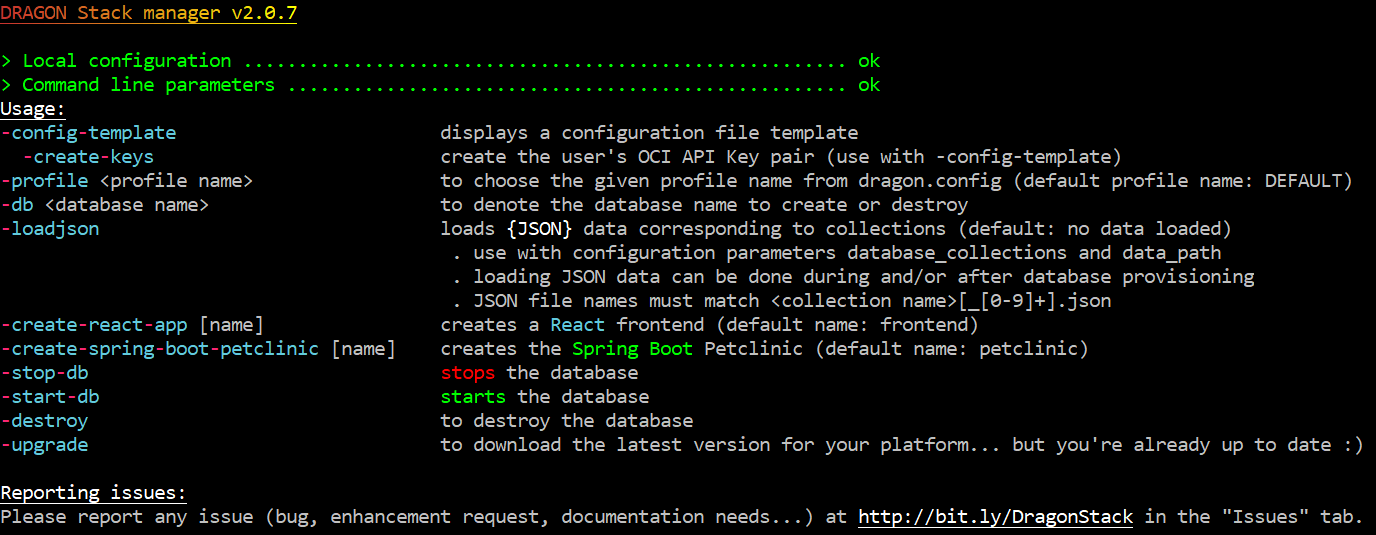
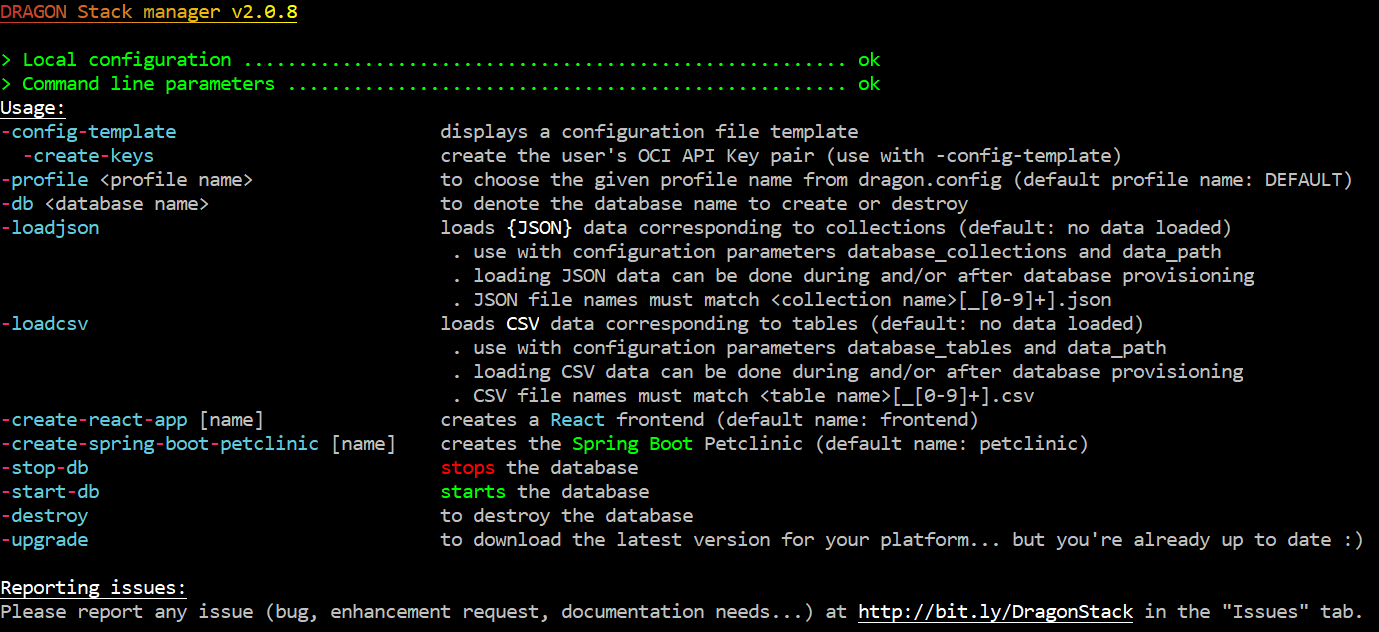
version 2.0.8

diff --git a/README.md b/README.md
@@ -20,26 +20,26 @@ __... in 5 minutes.__
 [![DRAGON Stack - React Frontend / Autonomous Backend](https://img.youtube.com/vi/DzI9yyAiRjY/0.jpg)](https://www.youtube.com/watch?v=DzI9yyAiRjY)
 
 ## Download
-The latest stable release is v2.0.7.
+The latest stable release is v2.0.8.
 
 ### Linux and OCI Cloud Shell
 ```
-rm -f ./dragon-linux-x86_64-2.0.7
-wget https://github.com/loiclefevre/dragon/releases/download/v2.0.7/dragon-linux-x86_64-2.0.7
+rm -f ./dragon-linux-x86_64-2.0.8
+wget https://github.com/loiclefevre/dragon/releases/download/v2.0.8/dragon-linux-x86_64-2.0.8
 chmod +x dragon-linux-*
 ```
 Learn about [OCI Cloud shell](https://docs.cloud.oracle.com/en-us/iaas/Content/API/Concepts/cloudshellintro.htm).
 
 ### Windows
 ```
-powershell wget https://github.com/loiclefevre/dragon/releases/download/v2.0.7/dragon-windows-x86_64-2.0.7.exe -OutFile dragon-windows-x86_64-2.0.7.exe
+powershell wget https://github.com/loiclefevre/dragon/releases/download/v2.0.8/dragon-windows-x86_64-2.0.8.exe -OutFile dragon-windows-x86_64-2.0.8.exe
 ```
 ### MAC OS
 *You'd need to [notarize](https://developer.apple.com/documentation/xcode/notarizing_macos_software_before_distribution) the application once downloaded*
 ```
-curl -L -O https://github.com/loiclefevre/dragon/releases/download/v2.0.7/dragon-osx-x86_64-2.0.7
+curl -L -O https://github.com/loiclefevre/dragon/releases/download/v2.0.8/dragon-osx-x86_64-2.0.8
 chmod +x dragon-osx-*
-sudo xattr -r -d com.apple.quarantine dragon-osx-x86_64-2.0.7
+sudo xattr -r -d com.apple.quarantine dragon-osx-x86_64-2.0.8
 ```
 
 ### Changelog
@@ -122,11 +122,15 @@ database_password=<database password>
  # Uncomment to ask for Bring Your Own Licenses model (doesn't work for Always Free and AJD)
 # database_license_type=byol
 
+ # Path to a folder where data to load into collections can be found (default to current directory)
+data_path=.
+
  # A list of coma separated JSON collection name(s) that you wish to get right after database creation
 # database_collections=
 
- # Path to a folder where data to load into collections can be found (default to current directory)
-data_path=.
+ # A list of coma separated table name(s) that you wish to get right after database creation
+ # These table must have corresponding CSV file(s) so that table structure (DDL) is deduced from the files
+# database_tables=
 ```
 
 
@@ -140,17 +144,17 @@ Example from OCI Cloud Shell (Linux):
 
 Linux and OCI Cloud Shell:
 ```
-$ ./dragon-linux-x86_64-2.0.7
+$ ./dragon-linux-x86_64-2.0.8
 ```
 
 Windows:
 ```
-> dragon-windows-x86_64-2.0.7.exe
+> dragon-windows-x86_64-2.0.8.exe
 ```
 
 MAC OS:
 ```
-$ ./dragon-osx-x86_64-2.0.7
+$ ./dragon-osx-x86_64-2.0.8
 ```
 
 ### Oracle Cloud Infrastructure Policy
@@ -172,19 +176,33 @@ If you need to create JSON collections during the provisioning process, you may 
 
 To load JSON data as well as provisioning (Linux and OCI Cloud Shell):
 ```
-$ ./dragon-linux-x86_64-2.0.7 -loadjson
+$ ./dragon-linux-x86_64-2.0.8 -loadjson
 ```
 
 To load JSON data as well as provisioning and finally create a React application (Linux and OCI Cloud Shell):
 ```
-$ ./dragon-linux-x86_64-2.0.7 -loadjson -create-react-app myfrontend
+$ ./dragon-linux-x86_64-2.0.8 -loadjson -create-react-app myfrontend
+```
+
+### Loading CSV data
+
+If you need to load CSV data into tables during the provisioning process (or even after), you can use the configuration file parameter __database_tables__ (see hereunder). You'll list the names (without file extension, separated by a comma) of CSV files present in the data_path directory (current directory by default). These files __must__ have a header! __Your CSV files will be loaded only if you ask for it using the -loadcsv CLI argument__. In the targeted table doesn't exist, it will be created and its structure will be deduced from the CSV data automatically.  
+
+To load CSV data as well as provisioning (Linux and OCI Cloud Shell):
+```
+$ ./dragon-linux-x86_64-2.0.8 -loadcsv
+```
+
+To load CSV data as well as provisioning and finally create a React application (Linux and OCI Cloud Shell):
+```
+$ ./dragon-linux-x86_64-2.0.8 -loadcsv -create-react-app myfrontend
 ```
 
 ### Destroying your database
 
 To destroy your database (Linux and OCI Cloud Shell):
 ```
-$ ./dragon-linux-x86_64-2.0.7 -destroy
+$ ./dragon-linux-x86_64-2.0.8 -destroy
 ```
 
 ## Stacks
@@ -248,9 +266,10 @@ __[Converged](https://www.youtube.com/watch?v=yBWgb_oh39U)__, it means, you get 
  
 Autonomous Database can be:
  - __[Always Free](https://signup.oraclecloud.com/?language=en)__ Autonomous Transaction Processing (ATP, aka Converged Database)
+ - __[Always Free](https://signup.oraclecloud.com/?language=en)__ Autonomous Data Warehouse (ADW)
  - Autonomous JSON Database (AJD)
  - Autonomous Transaction Processing (ATP)
- - Autonomous Data Warehouse (ADW)
+ - Autonomous Data Warehouse
 
 
 ### Thanks
